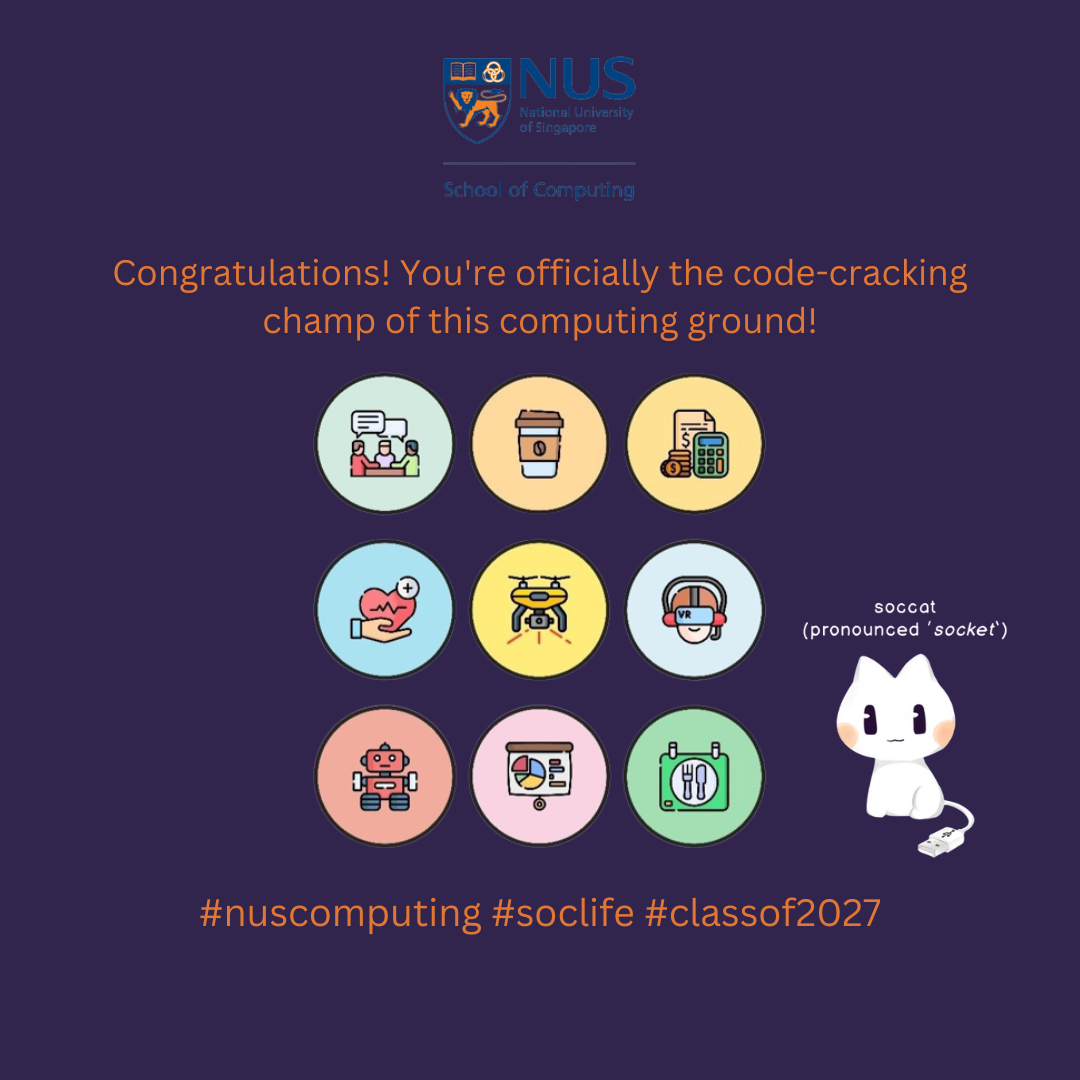
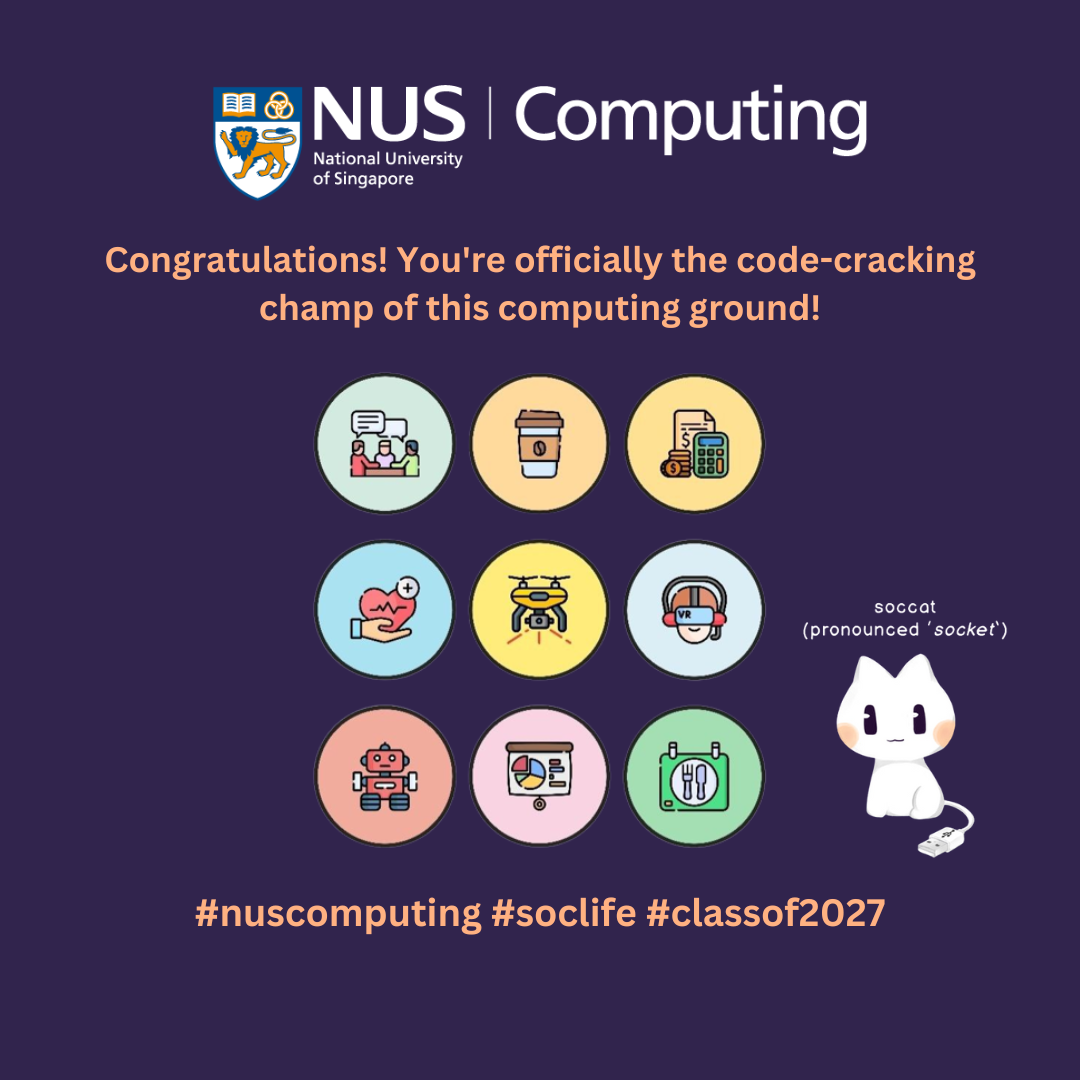
Code Updates: 1. redeemQrScanner.js 	A. onScanSuccessRedeem() 		- after successfully adding the redeem image, reload browser to prevent the possibility of HTML5QrScanner bug of infinite ajax calls 		- for invalid QRs, give a 1.5 seconds time of displaying the invalid modal pop-up and reload browser 
2. acknowlegement.html, instructions.html & socmaps.html
	- remove the duplicate calling of redeemStatusCheck() when <body> onload

3. media/poster/ folder
	- replaced the new "congratulatory" poster image

4. settings.py
	- added the respective domain name for our server

Changed region(s): [[0.1833, 0.0306, 0.825, 0.1833], [0.0917, 0.2139, 0.9167, 0.3361], [0.1833, 0.825, 0.825, 0.8861]]

diff --git a/scavenger/static/js/redeemQrScanner.js b/scavenger/static/js/redeemQrScanner.js
@@ -39,7 +39,9 @@ function onScanSuccessRedeem(decodedText, decodedResult) {
                 const src = document.getElementById("redeemStatus");
                 src.appendChild(img);
                 document.getElementById("redeembtn").style.display= 'none';
-                return;
+
+                // reload browser to prevent the possibility of HTML5QrScanner bug of infinite ajax calls
+                window.location.reload();
             }
             else {
                 // User scanned invalid QR, 
@@ -53,7 +55,10 @@ function onScanSuccessRedeem(decodedText, decodedResult) {
                         text: "Invalid QR! Please scan the Redeem Prize QR from Student Ambassador!",
                         icon: 'error'
                     })
-                    return;
+                    // reload browser to prevent the possibility of HTML5QrScanner bug of infinite ajax calls, give a 1.5 seconds time of displaying the invalid modal pop-up
+                    setTimeout(function(){
+                        window.location.reload();
+                     }, 1500);
                 }
             }
         },

diff --git a/scavenger/templates/instructions.html b/scavenger/templates/instructions.html
@@ -31,7 +31,7 @@
     <link rel="shortcut icon" type="image/png" href="{% static 'favicon.ico' %}"/>
 </head>
 
-<body onload="completedStatus(); countdown(); redeemStatusCheck(); redeemStatusCheck();">
+<body onload="completedStatus(); countdown(); redeemStatusCheck();">
     {% if eventList %}
     {% for obj in eventList %}
     <div class="eventcontainer">

diff --git a/scavenger/templates/socmaps.html b/scavenger/templates/socmaps.html
@@ -31,7 +31,7 @@
     <link rel="shortcut icon" type="image/png" href="{% static 'favicon.ico' %}"/>
 </head>
 
-<body onload="completedStatus(); countdown(); redeemStatusCheck(); redeemStatusCheck();">
+<body onload="completedStatus(); countdown(); redeemStatusCheck();">
    
     {% if eventList %}
     {% for obj in eventList %}

diff --git a/scavenger/templates/acknowledgement.html b/scavenger/templates/acknowledgement.html
@@ -33,7 +33,7 @@
     
 </head>
 
-<body onload="completedStatus(); countdown(); redeemStatusCheck(); redeemStatusCheck();">
+<body onload="completedStatus(); countdown(); redeemStatusCheck();">
     {% if eventList %}
     {% for obj in eventList %}
     <div class="eventcontainer">

diff --git a/django_app/settings.py b/django_app/settings.py
@@ -26,7 +26,7 @@ SECRET_KEY = 'django-insecure-b-bn4t876c!e4##=4(n1!2)1!m$g6adfxgny8_58jzo61%4xxs
 # SECURITY WARNING: don't run with debug turned on in production!
 DEBUG = True
 
-ALLOWED_HOSTS = ['fc23-175-156-94-155.ngrok-free.app', '192.168.1.12', 'localhost', '127.0.0.1', '*']
+ALLOWED_HOSTS = ['https://nussocscavenger.caf.la:8000', 'https://54.169.10.63:8000','192.168.1.12', 'localhost', '127.0.0.1', '*']
 
 
 # Application definition
@@ -122,11 +122,13 @@ USE_TZ = False
 
 # Static files (CSS, JavaScript, Images)
 # https://docs.djangoproject.com/en/4.2/howto/static-files/
-STATIC_ROOT = "../django-app/scavenger/static/"
+
+STATIC_ROOT = "/home/ubuntu/Django_App/ScavengerHunt/scavenger/static/"
 STATIC_URL = 'static/'
 STATICFILES_DIRS = (
     os.path.join(BASE_DIR, "static/"),
 )
+#DEBUG=True
 
 MEDIA_ROOT = os.path.join(BASE_DIR, 'media')
 MEDIA_URL = '/media/'
@@ -138,7 +140,7 @@ DEFAULT_AUTO_FIELD = 'django.db.models.BigAutoField'
 
 CORS_ORIGIN_ALLOW_ALL = True
 
-CSRF_TRUSTED_ORIGINS = ['https://fc23-175-156-94-155.ngrok-free.app', 'https://127.0.0.1']
+CSRF_TRUSTED_ORIGINS = ['https://nussocscavenger.caf.la', 'http://nussocscavenger.caf.la',  'https://nussocscavenger.caf.la:8000', 'https://54.169.10.63:8000', 'https://127.0.0.1']
 
 MESSAGE_TAGS = {
         messages.DEBUG: 'alert-secondary',
